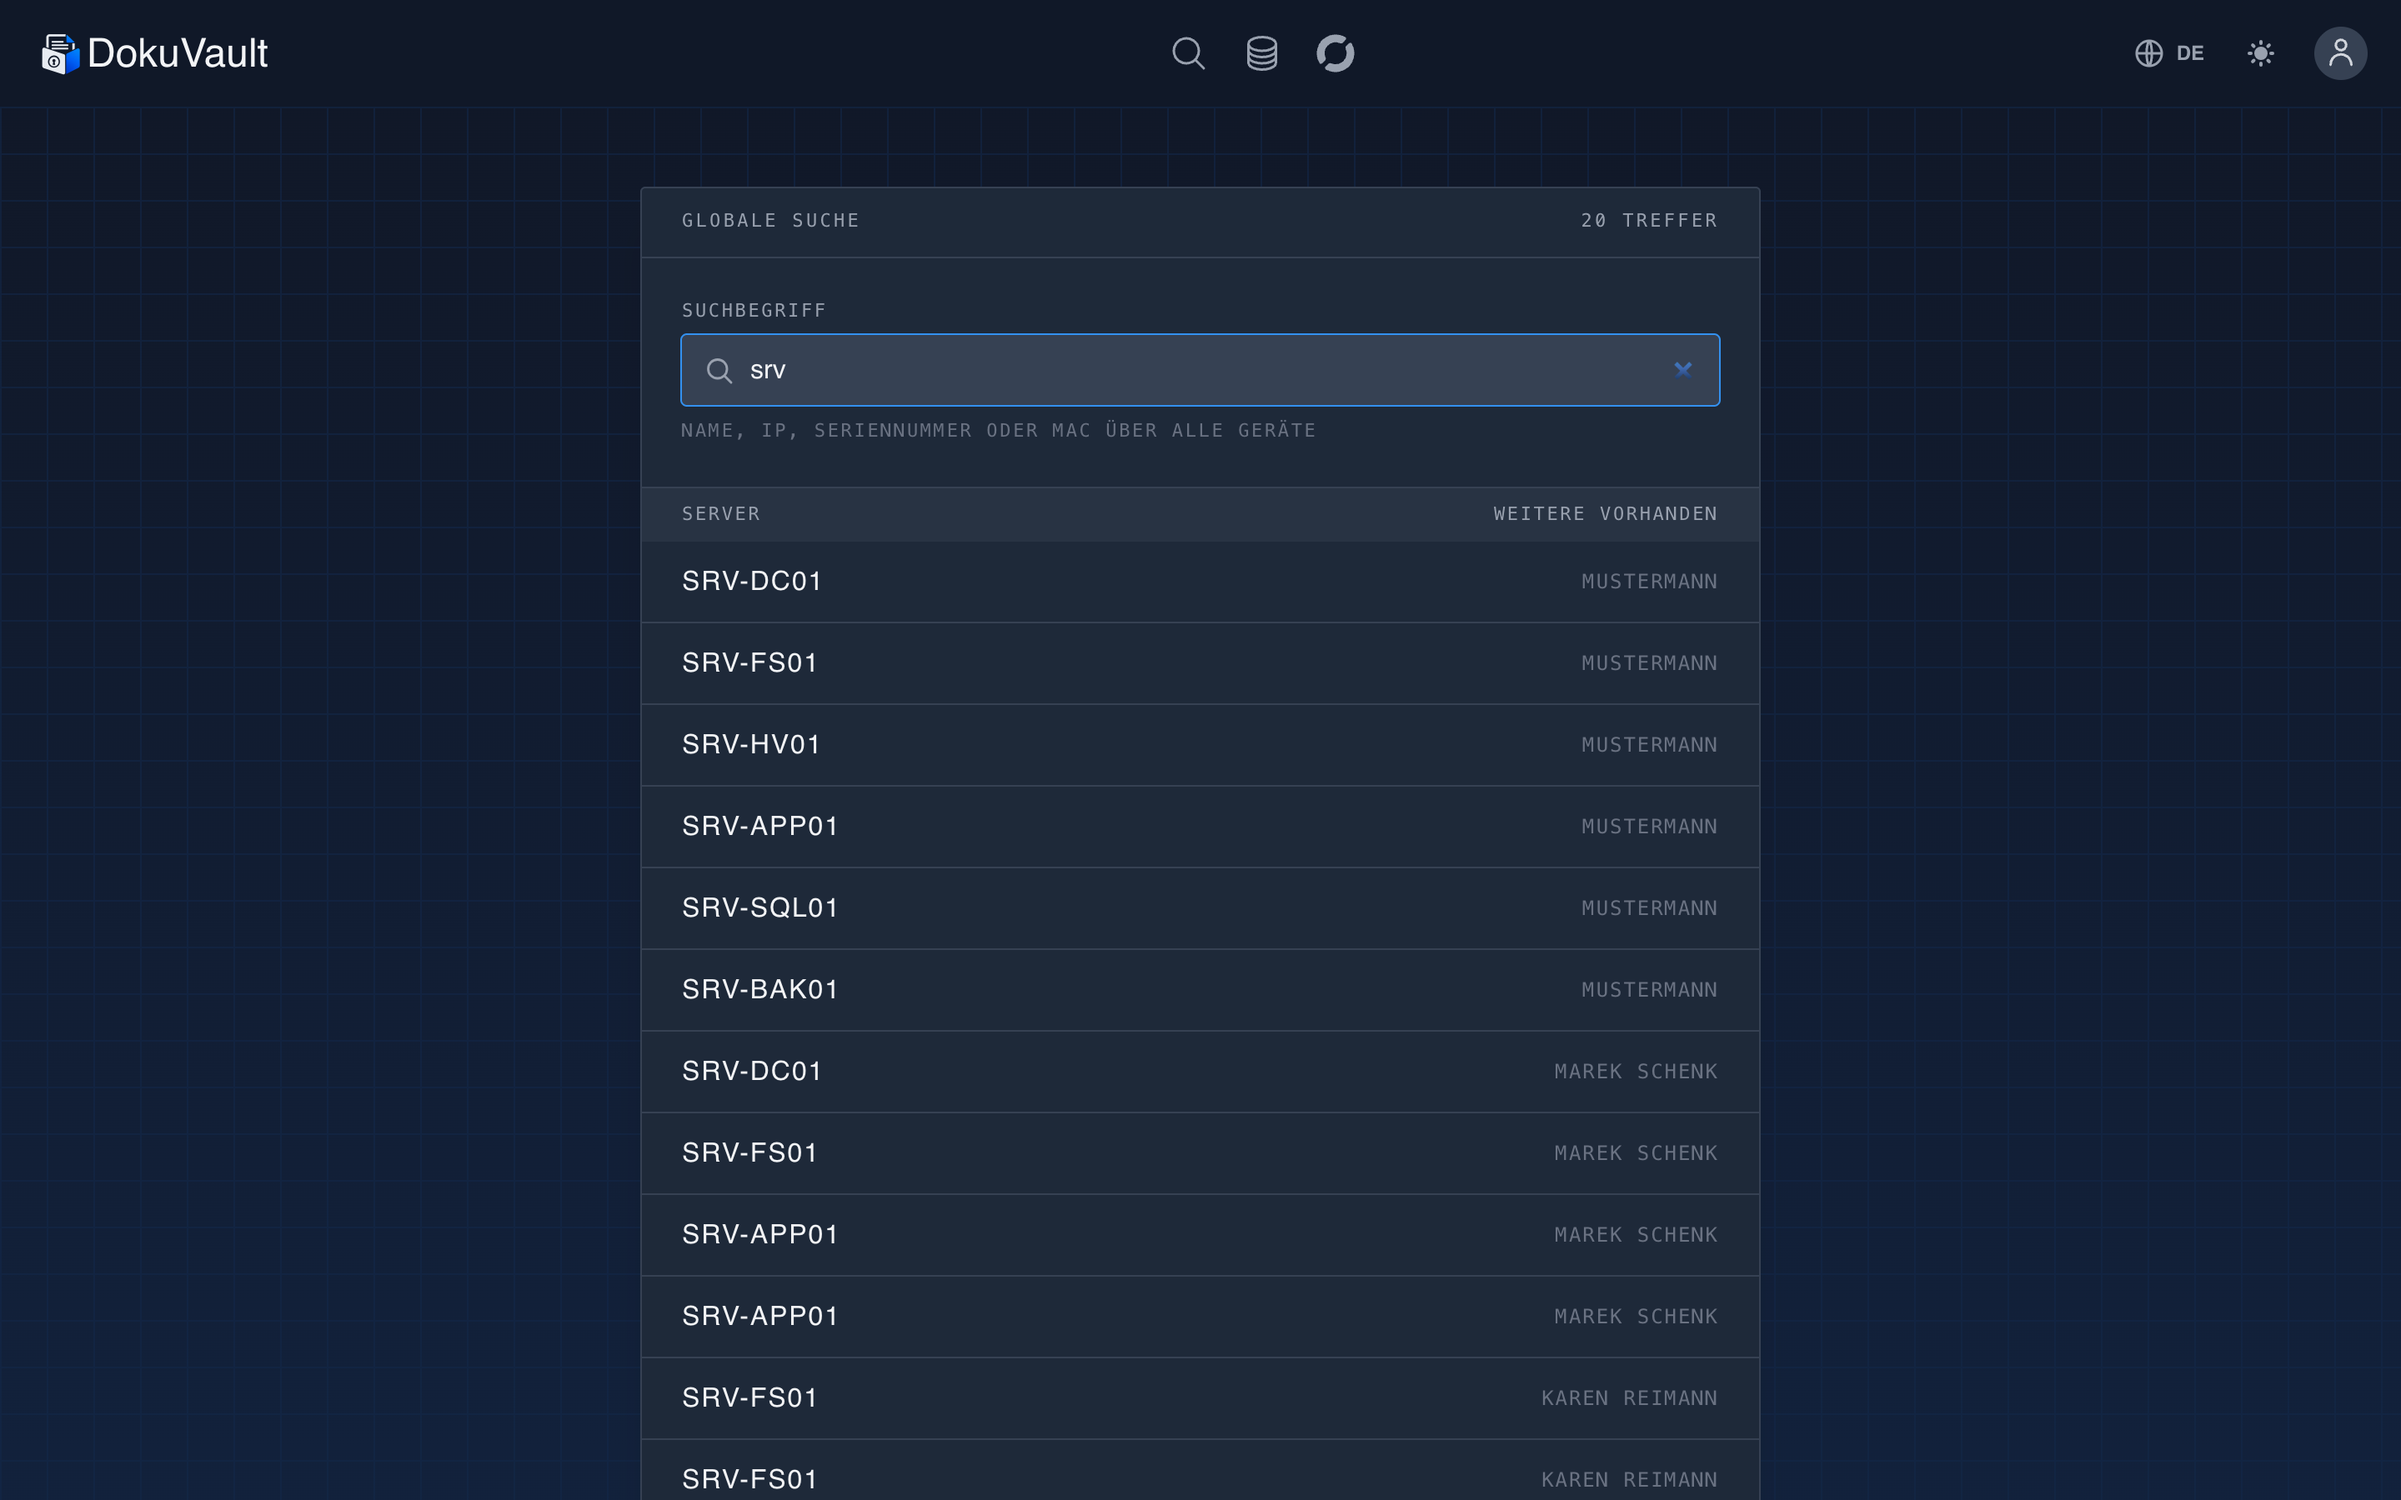
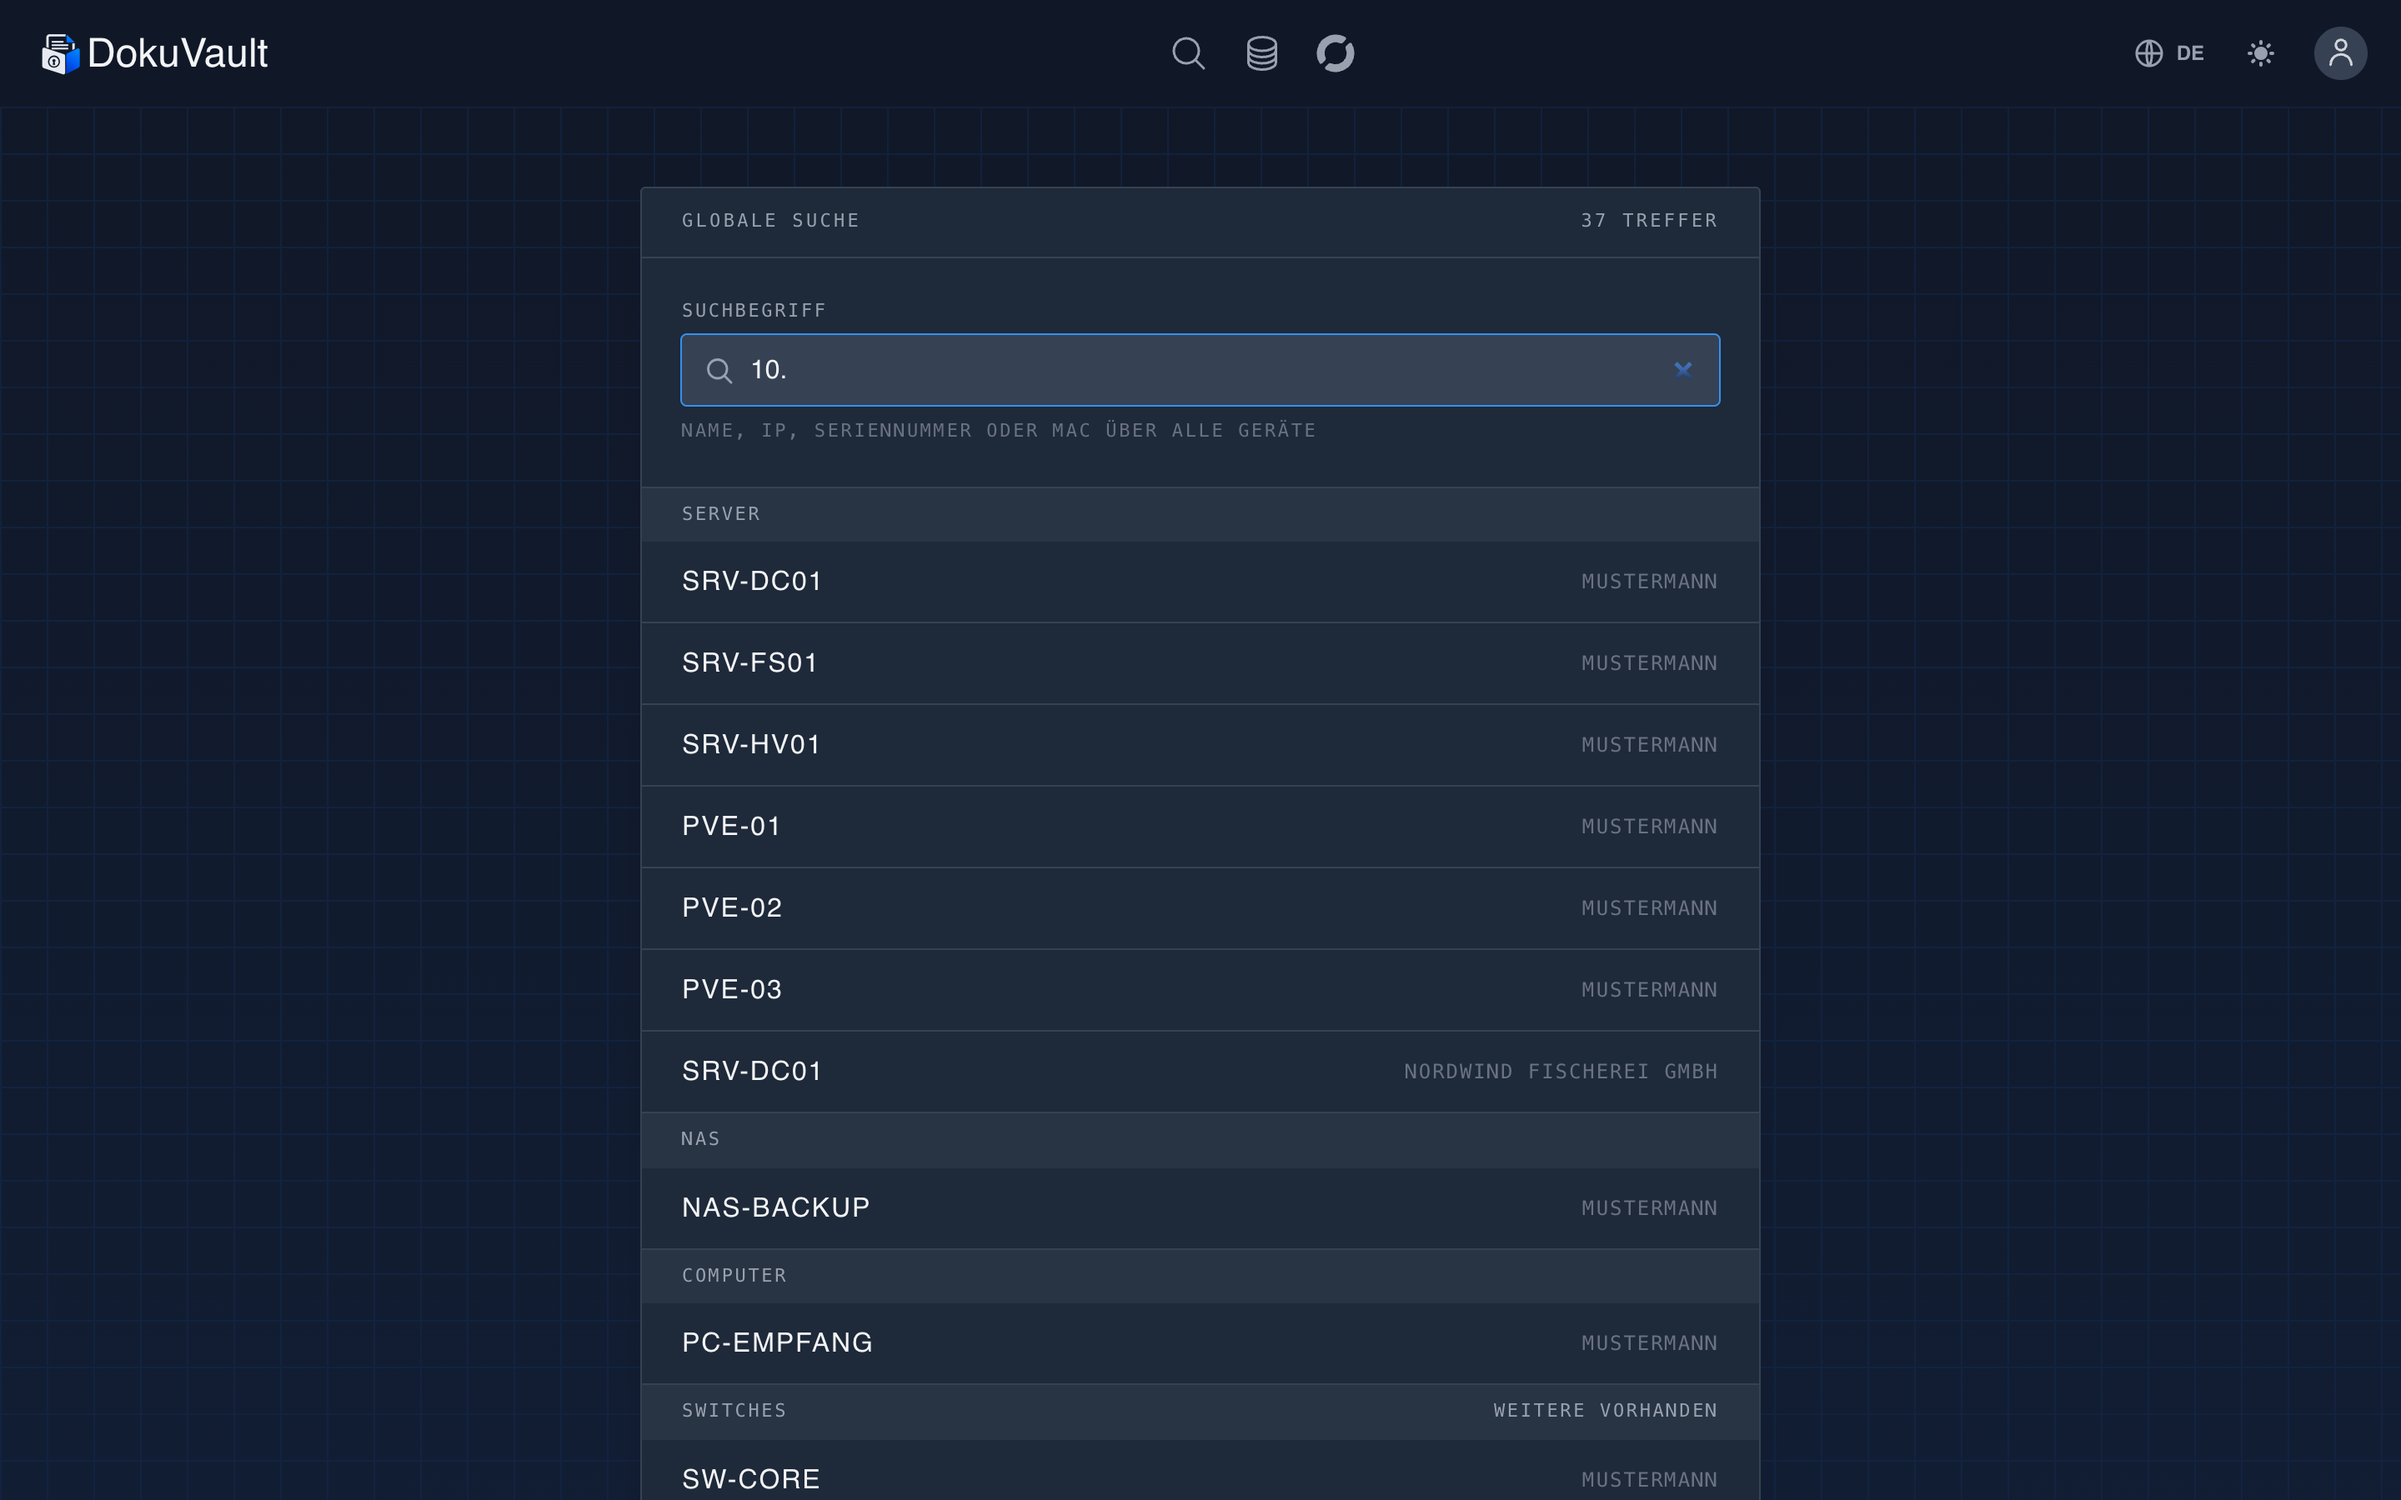
Zwei Bilder im README hielten nicht, was ihre Unterschrift verspricht
agenten.png stand im README, aber nicht in der Liste des Werkzeugs - es war
seit dem 10. September stehengeblieben und zeigte noch das alte Logo und das
alte, grosse Benutzersymbol. Jetzt laeuft es mit.

Der Such-Screenshot suchte nach "srv". Das trifft nur Server, und das Bild
zeigte genau eine Gruppe - waehrend die Unterschrift "ueber alle
Geraetetypen und Kunden hinweg" verspricht. Mit einem IP-Anfang trifft die
Suche Server, NAS, Computer und Switches, und die Aussage steht im Bild.

Dazu NUR=search,agenten im Werkzeug: einzelne Bilder nachziehen, ohne alle
achtunddreissig neu zu schreiben. Relative Zeitangaben ("vor 1 Stunde")
wandern sonst mit, und jeder Lauf aendert jede Datei.

diff --git a/changelog.md b/changelog.md
@@ -62,6 +62,9 @@
 - **Das Screenshot-Werkzeug räumt seine eigenen Anmeldungen jetzt selbst weg.** Es meldet sich je Sprache einmal an, und das stand danach im Aktivitätsprotokoll — auf `protokoll.png` und in „Letzte Aktivitäten" auf dem Admin-Dashboard. Beide Bilder zeigten dann das Werkzeug statt der Anwendung. Hinterher aufzuräumen half nicht: Die Anmeldung steht am Anfang des Laufs, die beiden Bilder entstehen am Ende — löschen und neu aufnehmen hieße wieder anmelden. Jetzt passiert es direkt nach dem Anmelden, eng gefasst auf das Ereignis `anmeldung` ab dem Start des Laufs.
   - Dabei fiel eine zweite Altlast auf: Das Werkzeug nahm einen `confirm()`-Dialog entgegen, den es seit dem Umbau der Löschen-Rückfrage nicht mehr gibt. Die Zeile war wirkungslos geworden.
 - **Alle Screenshots neu aufgenommen**, in beiden Sprachen — sie zeigten noch das alte Logo, und die umgebauten Seiten (beide Suchen, Profil, Benutzerliste mit Zugang-Spalte) ihren früheren Stand.
+  - **`agenten.png` lief dabei nie mit** — das Bild stand im README, aber nicht in der Liste des Werkzeugs. Es war seit dem 10. September stehengeblieben und zeigte noch das alte Logo und das alte, große Benutzersymbol. Jetzt in der Liste.
+  - **Der Suchbegriff des Such-Screenshots war `srv`** — der trifft nur Server, und das Bild zeigte eine einzige Gruppe, während die Bildunterschrift „über alle Gerätetypen und Kunden hinweg" verspricht. Jetzt ein IP-Anfang, der Server, NAS, Computer und Switches trifft.
+  - `NUR=search,agenten` zieht einzelne Bilder nach, statt alle achtunddreißig neu zu schreiben: Relative Zeitangaben („vor 1 Stunde") wandern sonst mit, und jeder Lauf ändert jede Datei.
 
 - Die Sperre wurde nach dem Bau von mehreren Agenten parallel gegengeprüft — vier Blickwinkel, jeder Fund von drei Skeptikern zu widerlegen versucht. Zehn Funde haben das überstanden, acht nicht. Die vier oben stammen daher; die Testlücken ebenso: Der Weg über die zweite Stufe, die Datenrouten der API (geprüft war nur `/api/user`) und der Livewire-Weg über die eigene Update-Route hatten keinen Test. Alle vier neuen Wachen fallen gegen den vorherigen Stand durch — nachgestellt und geprüft.
 
